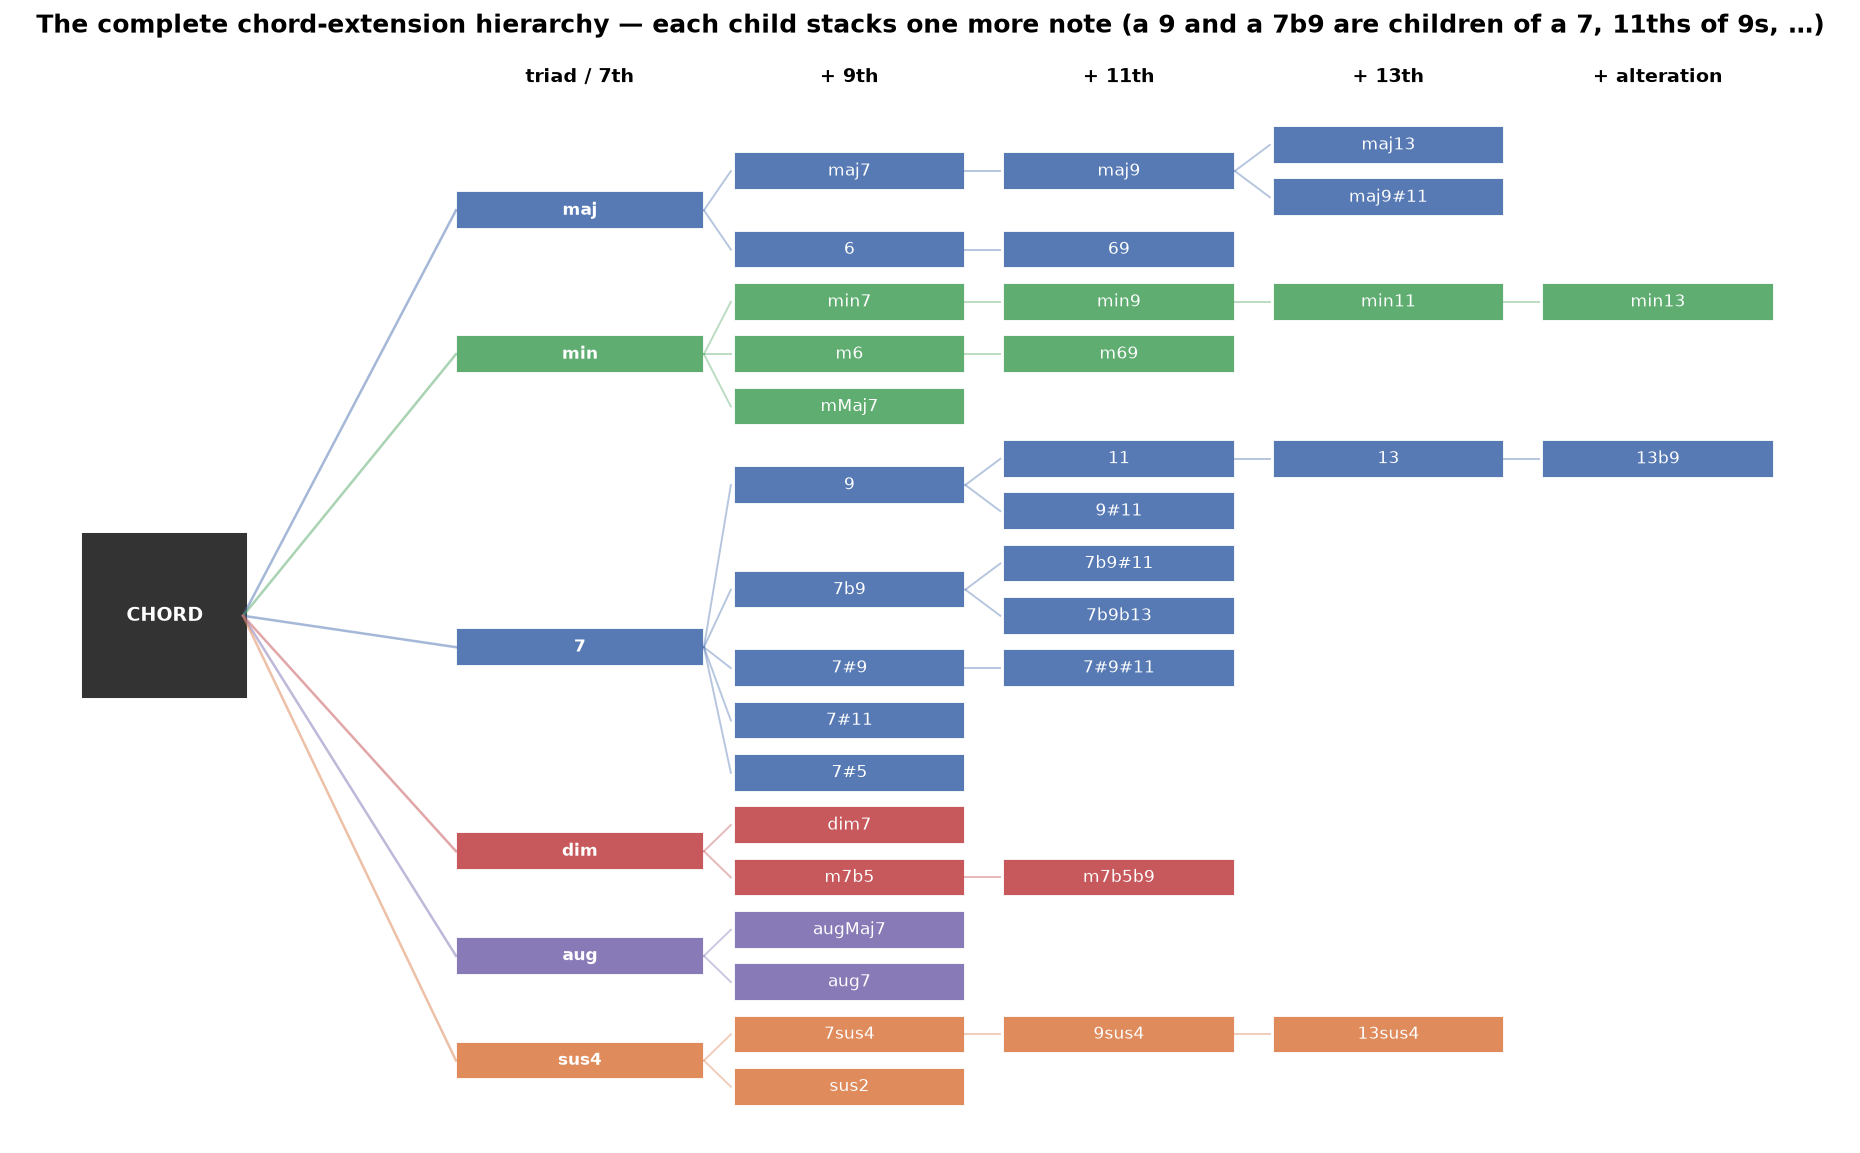
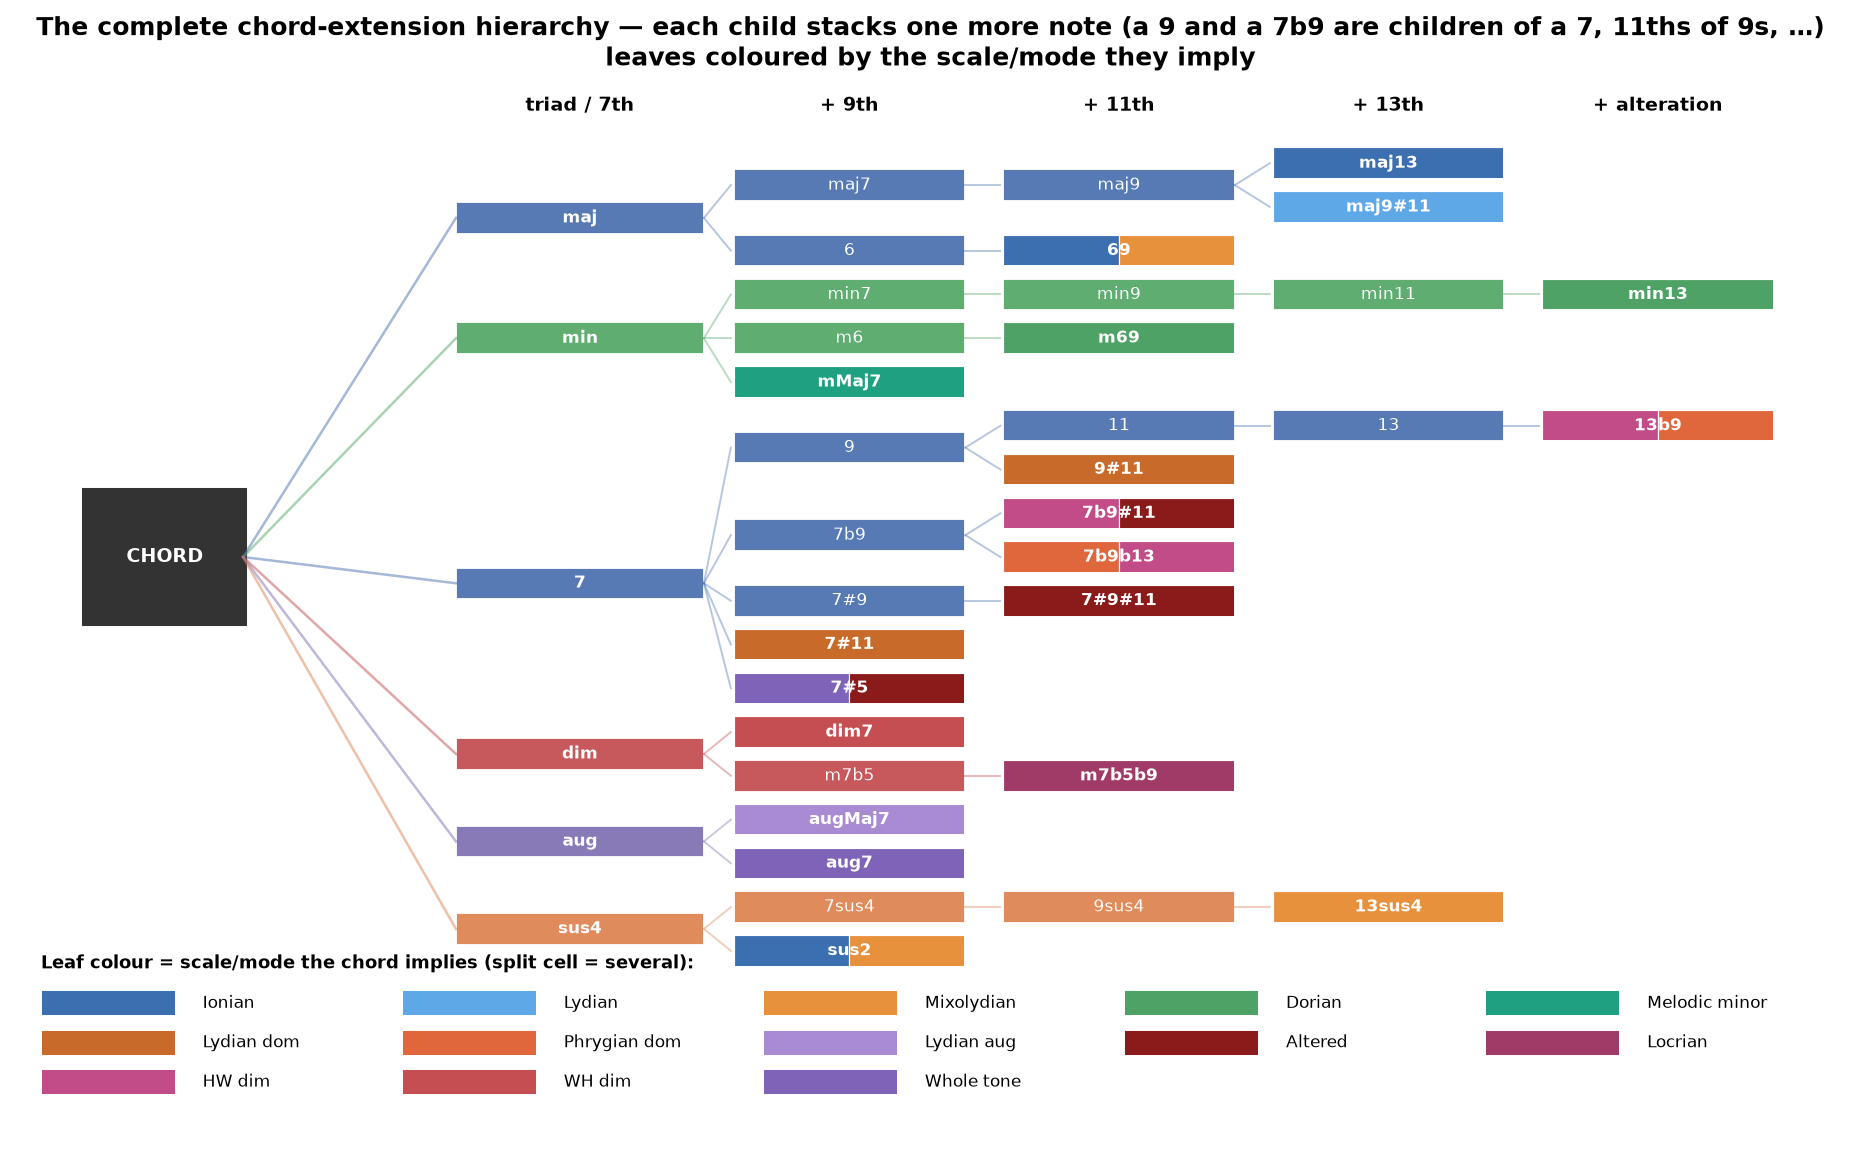
feat: retrain-on-hard-audio (+2-5pts) + extension leaves coloured by implied mode
- retrain_on_hard.py: augmenting training with hard multi-instrument audio recovers
  family 86.6->88.7%, seventh 75.2->78.6%, exact 66.9->72.0% (CSV in docs/results).
- extension hierarchy plot: terminal chords now coloured by the scale/mode they
  imply, split cell when several (69=Ionian+Mixolydian, 7b9#11=HW-dim+Altered, …),
  with an Ionian-first legend.

Changed region(s): [[0.0, 0.0624, 0.9667, 0.9679], [0.0312, 0.0, 0.9667, 0.0937], [0.8731, 0.0624, 0.9355, 0.0937]]

diff --git a/scripts/retrain_on_hard.py b/scripts/retrain_on_hard.py
@@ -1,0 +1,133 @@
+"""Retrain the audio chord model ON hard audio (augmentation) and measure the lift.
+
+Currently the model is trained on clean audio and deployed on hard audio (86.6%
+family / 75.2% seventh). This tests whether training WITH hard audio recovers
+accuracy: 5-fold grouped-by-song CV on the hard renders, comparing
+  clean-only training      (baseline — never saw hard audio)
+  clean + hard training     (augmentation)
+on the held-out hard fold. Family / seventh / exact. CSV → docs/results/.
+
+BP activations for the hard renders are already cached (data/cache/accomp_hard).
+
+Usage: .venv/bin/python scripts/retrain_on_hard.py
+"""
+
+from __future__ import annotations
+
+import csv
+import json
+import sys
+import warnings
+from pathlib import Path
+
+import numpy as np
+
+warnings.filterwarnings("ignore")
+REPO = Path(__file__).resolve().parent.parent
+sys.path.insert(0, str(REPO))
+sys.path.insert(0, str(REPO / "scripts"))
+
+from sklearn.linear_model import LogisticRegression  # noqa: E402
+from sklearn.model_selection import GroupKFold  # noqa: E402
+from sklearn.preprocessing import StandardScaler  # noqa: E402
+
+from analyze_accomp_emission import parse_chord, song_chord_spans  # noqa: E402
+from analyze_accomp_priors import parse_key  # noqa: E402
+from build_audio_chord_features import (BASE7_IDX, BUCKET_BASE7, BUCKET_FAMILY,  # noqa: E402
+                                        EXACT_IDX, FAM_IDX, full_chroma, reg_chroma)
+from learn_stage1_mapping import pool_beats  # noqa: E402
+from harmonia.models.stage1_pitch import PitchExtractor  # noqa: E402
+
+DB = REPO / "data" / "accomp_db" / "db.jsonl"
+HARD_MANIFEST = REPO / "data" / "accomp_db" / "audio_hard" / "manifest_hard.jsonl"
+CLEAN_FEAT = REPO / "data" / "cache" / "audio_chord_features.npz"
+RESULTS = REPO / "docs" / "results"
+
+
+def extract_hard():
+    records = {r["song_id"]: r for r in map(json.loads, open(DB))}
+    ex = PitchExtractor(cache_dir=REPO / "data" / "cache" / "accomp_hard")
+    feats, fam, b7, exact, song = [], [], [], [], []
+    for m in map(json.loads, open(HARD_MANIFEST)):
+        wav = REPO / m["wav"]
+        if not wav.exists():
+            continue
+        rec = records[m["song_id"]]
+        k = parse_key(rec["key"])
+        if k is None:
+            continue
+        spb = 60.0 / m["tempo"]; bpb = m["beats_per_bar"]; nb = m["n_bars"] * bpb
+        try:
+            acts = ex.extract(wav)
+        except Exception:
+            continue
+        onset = pool_beats(acts.frame_times, acts.onset_probs, nb, spb)
+        note = pool_beats(acts.frame_times, acts.note_probs, nb, spb)
+        chord_at = {(ev["bar"] - 1) * bpb + ev["beat"]: ev["mma"] for ev in rec["chord_timeline"]}
+        for t0, t1, root, _q in song_chord_spans(rec):
+            b0, b1 = int(round(t0 / spb)), min(int(round(t1 / spb)), nb)
+            mma = chord_at.get(b0)
+            p = parse_chord(mma) if mma else None
+            if p is None or p[1] not in BUCKET_FAMILY or b1 <= b0:
+                continue
+            rt = root % 12
+            rr = lambda c: np.roll(c, -rt)
+            on_c = rr(full_chroma(onset[b0:b1].sum(axis=0)))
+            if on_c.sum() < 1e-9:
+                continue
+            feats.append(np.hstack([on_c, rr(full_chroma(note[b0:b1].sum(axis=0))),
+                                    rr(reg_chroma(onset[b0:b1], 0, 52)),
+                                    rr(reg_chroma(onset[b0:b1], 60, 200))]))
+            fam.append(FAM_IDX[BUCKET_FAMILY[p[1]]])
+            b7.append(BASE7_IDX[BUCKET_BASE7[p[1]]])
+            exact.append(EXACT_IDX[p[1]])
+            song.append(m["song_id"])
+    return (np.array(feats), np.array(fam), np.array(b7), np.array(exact), np.array(song))
+
+
+def main():
+    RESULTS.mkdir(parents=True, exist_ok=True)
+    d = np.load(CLEAN_FEAT, allow_pickle=True)
+    Xclean = np.hstack([d["onset"], d["note"], d["bass"], d["treble"]])
+    yclean = {"family": d["family"].astype(int), "seventh": d["base7"].astype(int),
+              "exact": d["exact"].astype(int)}
+
+    Xh, fam, b7, exact, song = extract_hard()
+    yh = {"family": fam, "seventh": b7, "exact": exact}
+    print(f"{len(Xh)} hard chords, {len(set(song.tolist()))} songs; "
+          f"{len(Xclean)} clean chords\n")
+
+    def fit_predict(Xtr, ytr, Xte, nc):
+        sc = StandardScaler().fit(Xtr)
+        clf = LogisticRegression(max_iter=2000, C=1.0).fit(sc.transform(Xtr), ytr)
+        pred = clf.predict(sc.transform(Xte))
+        return pred
+
+    rows = []
+    print(f"{'level':<10}{'clean-only (deploy)':>20}{'clean+hard (augmented)':>24}")
+    for level in ("family", "seventh", "exact"):
+        nc = int(max(yclean[level].max(), yh[level].max()) + 1)
+        gkf = GroupKFold(5)
+        acc_clean, acc_aug = [], []
+        for tr, te in gkf.split(Xh, yh[level], song):
+            # clean-only: train on clean, test on hard-test
+            p0 = fit_predict(Xclean, yclean[level], Xh[te], nc)
+            acc_clean.append((p0 == yh[level][te]).mean())
+            # augmented: train on clean + hard-train, test on hard-test
+            Xtr = np.vstack([Xclean, Xh[tr]])
+            ytr = np.concatenate([yclean[level], yh[level][tr]])
+            p1 = fit_predict(Xtr, ytr, Xh[te], nc)
+            acc_aug.append((p1 == yh[level][te]).mean())
+        a0, a1 = float(np.mean(acc_clean)), float(np.mean(acc_aug))
+        print(f"{level:<10}{a0:>19.1%}{a1:>23.1%}   (Δ {a1-a0:+.1%})")
+        rows.append({"level": level, "clean_only": round(a0, 3),
+                     "clean_plus_hard": round(a1, 3), "gain": round(a1 - a0, 3)})
+
+    with open(RESULTS / "retrain_hard.csv", "w", newline="") as f:
+        w = csv.DictWriter(f, fieldnames=list(rows[0].keys()))
+        w.writeheader(); w.writerows(rows)
+    print(f"\nCSV → {RESULTS/'retrain_hard.csv'}")
+
+
+if __name__ == "__main__":
+    main()

diff --git a/scripts/plot_hierarchy_trees.py b/scripts/plot_hierarchy_trees.py
@@ -170,6 +170,29 @@ EXT_TREE = {
 }
 
 
+# modes each TERMINAL chord can imply (several → the leaf cell is split)
+CHORD_LEAF_MODES = {
+    "maj13": ["Ionian"], "maj9#11": ["Lydian"], "69": ["Ionian", "Mixolydian"],
+    "min13": ["Dorian"], "m69": ["Dorian"], "mMaj7": ["Melodic minor"],
+    "13b9": ["HW dim", "Phrygian dom"], "9#11": ["Lydian dom"],
+    "7b9#11": ["HW dim", "Altered"], "7b9b13": ["Phrygian dom", "HW dim"],
+    "7#9#11": ["Altered"], "7#11": ["Lydian dom"], "7#5": ["Whole tone", "Altered"],
+    "dim7": ["WH dim"], "m7b5b9": ["Locrian"], "augMaj7": ["Lydian aug"],
+    "aug7": ["Whole tone"], "13sus4": ["Mixolydian"], "sus2": ["Ionian", "Mixolydian"],
+}
+# legend order: bright/major modes first, down to symmetric/altered
+MODE_ORDER = ["Ionian", "Lydian", "Mixolydian", "Dorian", "Aeolian", "Phrygian",
+              "Melodic minor", "Lydian dom", "Phrygian dom", "Lydian aug",
+              "Altered", "Locrian", "HW dim", "WH dim", "Whole tone"]
+MODE_PALETTE = {
+    "Ionian": "#3B6FB0", "Lydian": "#5FA8E8", "Mixolydian": "#E8913C",
+    "Dorian": "#4FA265", "Aeolian": "#2E7D4F", "Phrygian": "#9C7A50",
+    "Melodic minor": "#1FA080", "Lydian dom": "#C86A2A", "Phrygian dom": "#E0663C",
+    "Lydian aug": "#A98BD4", "Altered": "#8B1A1A", "Locrian": "#A03A66",
+    "HW dim": "#C24C88", "WH dim": "#C44E52", "Whole tone": "#7E63B8",
+}
+
+
 def plot_extension_hierarchy():
     # layout: DFS leaf order → y; node y = mean of its leaves; x = depth
     pos = {}
@@ -190,19 +213,34 @@ def plot_extension_hierarchy():
     fig, ax = plt.subplots(figsize=(1.9 * (maxd + 1) + 2, 0.36 * n + 1.5))
     xstep = 1.0
 
+    used_modes = set()
+
     def draw(node, path, fam):
         d, y = pos[path]
-        col = FAM_COLORS[fam]
         label = path[-1]
         w = 0.92 if d <= 1 else 0.86
-        ax.add_patch(Rectangle((d * xstep - w / 2, n - 1 - y - 0.36), w, 0.72,
-                               facecolor=col, edgecolor="white", lw=1, alpha=0.94))
-        ax.text(d * xstep, n - 1 - y, label, ha="center", va="center",
-                color="white", fontsize=8.5, fontweight="bold" if d <= 1 else "normal")
+        x0, yy = d * xstep - w / 2, n - 1 - y
+        if not node and label in CHORD_LEAF_MODES:
+            # terminal chord: colour the cell by the mode(s) it implies (split if several)
+            modes = CHORD_LEAF_MODES[label]
+            used_modes.update(modes)
+            sw = w / len(modes)
+            for i, mode in enumerate(modes):
+                ax.add_patch(Rectangle((x0 + i * sw, yy - 0.36), sw, 0.72,
+                                       facecolor=MODE_PALETTE[mode], edgecolor="white", lw=0.6))
+            ax.add_patch(Rectangle((x0, yy - 0.36), w, 0.72, fill=False,
+                                   edgecolor="white", lw=1))
+            ax.text(d * xstep, yy, label, ha="center", va="center", color="white",
+                    fontsize=8.5, fontweight="bold")
+        else:
+            ax.add_patch(Rectangle((x0, yy - 0.36), w, 0.72, facecolor=FAM_COLORS[fam],
+                                   edgecolor="white", lw=1, alpha=0.94))
+            ax.text(d * xstep, yy, label, ha="center", va="center", color="white",
+                    fontsize=8.5, fontweight="bold" if d <= 1 else "normal")
         for k, v in node.items():
             cd, cy = pos[path + (k,)]
             ax.plot([d * xstep + w / 2, cd * xstep - 0.44],
-                    [n - 1 - y, n - 1 - cy], color=col, lw=1, alpha=0.4)
+                    [yy, n - 1 - cy], color=FAM_COLORS[fam], lw=1, alpha=0.4)
             draw(v, path + (k,), fam)
 
     # root
@@ -220,10 +258,27 @@ def plot_extension_hierarchy():
                    (4, "+ 13th"), (5, "+ alteration")]:
         if d <= maxd:
             ax.text(d * xstep, n + 0.2, lab, ha="center", fontsize=10, fontweight="bold")
-    ax.set_xlim(-1.1, maxd * xstep + 0.7); ax.set_ylim(-1, n + 0.7)
+
+    # legend: leaf cells coloured by implied mode/scale (Ionian first)
+    legend_modes = [m for m in MODE_ORDER if m in used_modes]
+    ax.text(-1.0, -0.4, "Leaf colour = scale/mode the chord implies "
+            "(split cell = several):", fontsize=9, fontweight="bold", ha="left")
+    per_row = 5
+    for i, mode in enumerate(legend_modes):
+        col = i % per_row
+        row = i // per_row
+        lx = -1.0 + col * (maxd * xstep + 1.7) / per_row
+        ly = -1.2 - row * 0.9
+        ax.add_patch(Rectangle((lx, ly - 0.3), 0.5, 0.6, facecolor=MODE_PALETTE[mode],
+                               edgecolor="white"))
+        ax.text(lx + 0.6, ly, mode, fontsize=8.5, va="center", ha="left")
+
+    n_rows = (len(legend_modes) + per_row - 1) // per_row
+    ax.set_xlim(-1.1, maxd * xstep + 0.7); ax.set_ylim(-1.6 - n_rows * 0.9, n + 0.7)
     ax.axis("off")
     ax.set_title("The complete chord-extension hierarchy — each child stacks one more "
-                 "note (a 9 and a 7b9 are children of a 7, 11ths of 9s, …)",
+                 "note (a 9 and a 7b9 are children of a 7, 11ths of 9s, …)\n"
+                 "leaves coloured by the scale/mode they imply",
                  fontsize=13, fontweight="bold", pad=12)
     plt.tight_layout()
     fig.savefig(PLOTS / "hierarchy_chord_extensions.png", dpi=140, bbox_inches="tight")